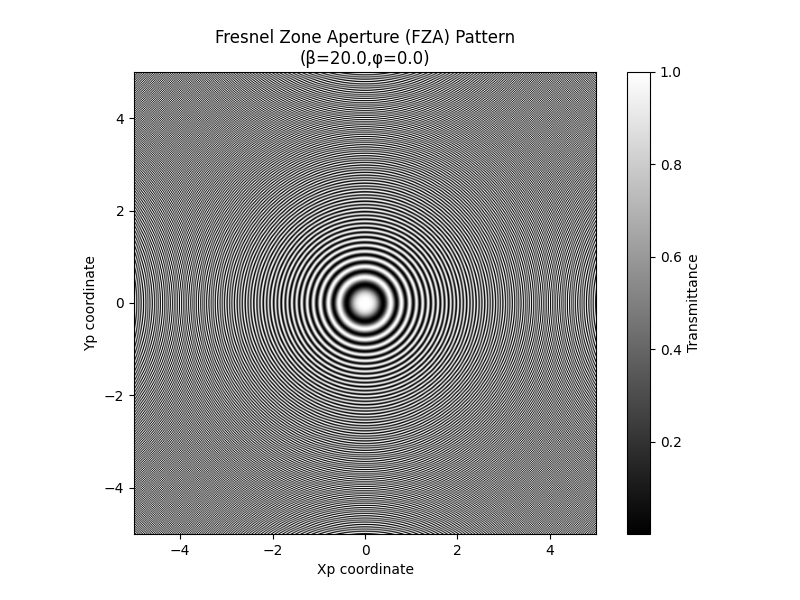
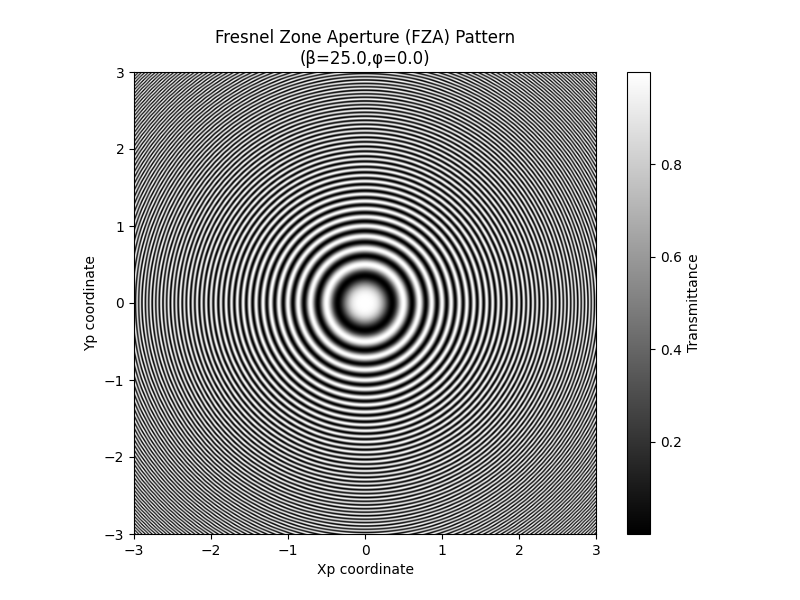
reconstruction add

diff --git a/FZA_mask_reconstruction.py b/FZA_mask_reconstruction.py
@@ -1,0 +1,199 @@
+import numpy as np
+import matplotlib.pyplot as plt
+from scipy import signal
+from PIL import Image
+
+# FZAのパラメータと描画範囲を設定
+image_size=512 # 画像のサイズ
+grid_range=3.0 # 空間座標の範囲
+beta=25.0
+d=5.0 # FZAからセンサまでの距離(mm)
+z=280.0 # 被写体からFZAまでの距離
+M=d/z
+beta_prime=beta/((M+1)**2)
+
+# 4つの位相{0,π/2,π,3π/2}
+phases=[0,np.pi/2,np.pi,3*np.pi/2]
+phase_labels=["φ=0","φ=π/2","φ=π","φ=3π/2"]
+coded_images=[] # 生成した4枚の画像を格納するリスト
+
+# 座標グリッドを作成
+x=np.linspace(-grid_range,grid_range,image_size)
+y=np.linspace(-grid_range,grid_range,image_size)
+
+# 1次元配列から２次元の座標を作成
+X,Y=np.meshgrid(x,y)
+
+# 画像へのpath
+image_path="C:\\Users\\ko11s\\OneDrive\\Desktop\\research\\b\\img\\subject.jpg" 
+
+# カラー画像(512*512)を読み込み、float型に変換
+input_image_uint8 = np.array(Image.open(image_path).convert("RGB"))
+input_image = input_image_uint8.astype(np.float64)
+
+# 入力画像をR, G, Bチャンネルに分離
+R_channel = input_image[:, :, 0]
+G_channel = input_image[:, :, 1]
+B_channel = input_image[:, :, 2]
+
+# 式(3)の実装
+
+print("4つの位相で畳み込み処理...\n")
+for phi in phases:
+    # PSFをFZAの幾何学的影で近似(512*512) 式(2)
+    h_FZA=0.5*(1+np.cos(beta_prime*(X**2+Y**2)-phi))
+
+    # 各チャンネルで畳み込みを計算 式(3)
+    coded_R=signal.fftconvolve(R_channel,h_FZA,mode='same')
+    coded_G=signal.fftconvolve(G_channel,h_FZA,mode='same')
+    coded_B=signal.fftconvolve(B_channel,h_FZA,mode='same')
+
+    # 各チャンネルを結合してカラー画像に戻す
+    coded_color_image=np.stack([coded_R,coded_G,coded_B],axis=-1)
+
+    # 結果をリストに保存
+    coded_images.append(coded_color_image)
+print("処理完了")
+
+# # --- 結果の可視化 ---
+# fig, axes = plt.subplots(1, 5, figsize=(25, 5))
+
+# # 元画像の表示
+# axes[0].imshow(input_image_uint8)
+# axes[0].set_title("Original Color Image")
+# axes[0].grid(False)
+
+# # 4枚の符号化画像の表示
+# for i, img in enumerate(coded_images):
+#     # 輝度値が大きな値になっているため、正規化して0-255の範囲に収める
+#     img_min = np.min(img)
+#     img_max = np.max(img)
+#     # ゼロ除算を避けるためのチェック
+#     if img_max > img_min:
+#         img_normalized = (img - img_min) / (img_max - img_min)
+#         img_display = (img_normalized * 255).astype(np.uint8)
+#     else:
+#         # 画像が真っ黒などの場合
+#         img_display = img.astype(np.uint8)
+
+#     axes[i+1].imshow(img_display)
+#     axes[i+1].set_title(f"Coded Image ({phase_labels[i]})")
+#     axes[i+1].grid(False)
+
+# plt.tight_layout()
+# plt.savefig('coded_images.png')
+# plt.show()
+
+# 4枚の符号化された生データを使って計算
+g_0,g_pi_half,g_pi,g_3pi_half=coded_images[0],coded_images[1],coded_images[2],coded_images[3]
+j=1j
+
+# 式(6)
+print("\nフリンジスキャンを実行...")
+g_FS_R=-(g_pi_half[:, :, 0]-g_3pi_half[:, :, 0])+j*(g_0[:, :, 0]-g_pi[:, :, 0])
+g_FS_G=-(g_pi_half[:, :, 1]-g_3pi_half[:, :, 1])+j*(g_0[:, :, 1]-g_pi[:, :, 1])
+g_FS_B=-(g_pi_half[:, :, 2]-g_3pi_half[:, :, 2])+j*(g_0[:, :, 2]-g_pi[:, :, 2])
+print("処理完了")
+
+# # --- 結果を確認 ---
+# print("\n--- 計算結果 ---")
+# print(f"Rチャンネル合成後の形状: {g_FS_R.shape}, データ型: {g_FS_R.dtype}")
+
+# # --- 結果を可視化 ---
+# g_FS_R_magnitude = np.abs(g_FS_R)
+# g_FS_G_magnitude = np.abs(g_FS_G)
+# g_FS_B_magnitude = np.abs(g_FS_B)
+
+# magnitude_color = np.zeros((image_size, image_size, 3), dtype=np.uint8)
+# magnitude_color[:, :, 0] = 255 * (g_FS_R_magnitude / np.max(g_FS_R_magnitude))
+# magnitude_color[:, :, 1] = 255 * (g_FS_G_magnitude / np.max(g_FS_G_magnitude))
+# magnitude_color[:, :, 2] = 255 * (g_FS_B_magnitude / np.max(g_FS_B_magnitude))
+
+# g_FS_R_phase = np.angle(g_FS_R)
+
+# fig2, axes2 = plt.subplots(1, 3, figsize=(15, 5))
+# fig2.suptitle("fringescan_after", fontsize=16)
+# axes2[0].imshow(magnitude_color)
+# axes2[0].set_title("color")
+# axes2[1].imshow(g_FS_R_magnitude, cmap='gray')
+# axes2[1].set_title("amplitude (R)")
+# axes2[2].imshow(g_FS_R_phase, cmap='hsv')
+# axes2[2].set_title("phase (R)")
+# plt.tight_layout(rect=[0, 0.03, 1, 0.95])
+# plt.savefig('fringe_scan_synthesis.png')
+# plt.show()
+
+
+# 式(7),(8)の実装
+
+# 単一複素数伝達関数の計算
+print("\n単一複素数伝達関数を作成...")
+h_geo = np.exp(j * beta_prime * (X**2 + Y**2)) # 式(7)
+
+# h_geoをフーリエ変換してH_geoを得る
+# fftshiftで画像中央を(0,0)としてフーリエ変換
+H_geo = np.fft.fft2(np.fft.ifftshift(h_geo)) # 式(7)のフーリエ変換(式(8))
+
+# 逆フィルタH_geo_invの作成(H_geoの複素共役)
+H_geo_inv=np.conj(H_geo)
+
+# 直接式(8)
+# dx = (2 * grid_range) / image_size
+# u = np.fft.fftfreq(image_size, d=dx)
+# v = np.fft.fftfreq(image_size, d=dx)
+# U, V = np.meshgrid(u, v)
+
+# H_geo = np.exp(-j * (np.pi**2 / beta_prime) * (U**2 + V**2))
+# H_geo_inv = np.conj(H_geo)
+print("作成完了")
+
+# 画像の再構成 式(9)
+
+print("\n画像の再構成を実行...")
+# 各カラーのフリンジスキャンのフーリエ変換(周波数領域へ)
+G_FS_R = np.fft.fft2(g_FS_R)
+G_FS_G = np.fft.fft2(g_FS_G)
+G_FS_B = np.fft.fft2(g_FS_B)
+
+# 周波数領域での積
+F_reconstructed_R = H_geo_inv*G_FS_R
+F_reconstructed_G = H_geo_inv*G_FS_G
+F_reconstructed_B = H_geo_inv*G_FS_B
+
+# 逆フーリエ
+f_geo_R = np.fft.ifft2(F_reconstructed_R)
+f_geo_G = np.fft.ifft2(F_reconstructed_G)
+f_geo_B = np.fft.ifft2(F_reconstructed_B)
+print("再構成完了")
+
+
+# --- 最終画像の組み立てと可視化 ---
+f_geo_R_abs = np.abs(f_geo_R)
+f_geo_G_abs = np.abs(f_geo_G)
+f_geo_B_abs = np.abs(f_geo_B)
+
+reconstructed_image_raw = np.stack([f_geo_R_abs, f_geo_G_abs, f_geo_B_abs], axis=-1)
+
+
+# 表示のために値を0-255の範囲に正規化
+img_min = np.min(reconstructed_image_raw)
+img_max = np.max(reconstructed_image_raw)
+if img_max > img_min:
+    img_normalized = (reconstructed_image_raw - img_min) / (img_max - img_min)
+    reconstructed_image_display = (img_normalized * 255).astype(np.uint8)
+else:
+    reconstructed_image_display = reconstructed_image_raw.astype(np.uint8)
+
+# --- 最終結果の表示 ---
+fig, axes = plt.subplots(1, 2, figsize=(12, 6))
+fig.suptitle("compare_Image", fontsize=16)
+
+axes[0].imshow(input_image_uint8)
+axes[0].set_title("Original Image")
+
+axes[1].imshow(reconstructed_image_display)
+axes[1].set_title("Reconstructed Image (Conventional)")
+
+plt.tight_layout(rect=[0, 0.03, 1, 0.95])
+plt.savefig('final_reconstruction.png')
+plt.show()

diff --git a/FZA_mask.py b/FZA_mask.py
@@ -6,11 +6,13 @@ import matplotlib.pyplot as plt
 image_size=512
 
 # 空間座標の範囲
-grid_range=5.0
+grid_range=3.0
 
 # FZAのパラメータ
-beta=20.0
-phi=0
+beta=25.0
+phi=0*np.pi # FZAの初期位相
+d=5.0 # FZAからセンサまでの距離(mm)
+z=280.0 # 被写体からFZAまでの距離
 
 # 座標グリッドを作成
 x=np.linspace(-grid_range,grid_range,image_size)
@@ -19,7 +21,7 @@ y=np.linspace(-grid_range,grid_range,image_size)
 # 1次元配列から２次元の座標を作成
 Xp,Yp=np.meshgrid(x,y)
 
-# FZAの透過率を計算
+# FZAの透過率を計算(512*512)
 transmittance=0.5*(1+np.cos(beta*(Xp**2+Yp**2)-phi))
 
 # 計算結果を画像として表示
